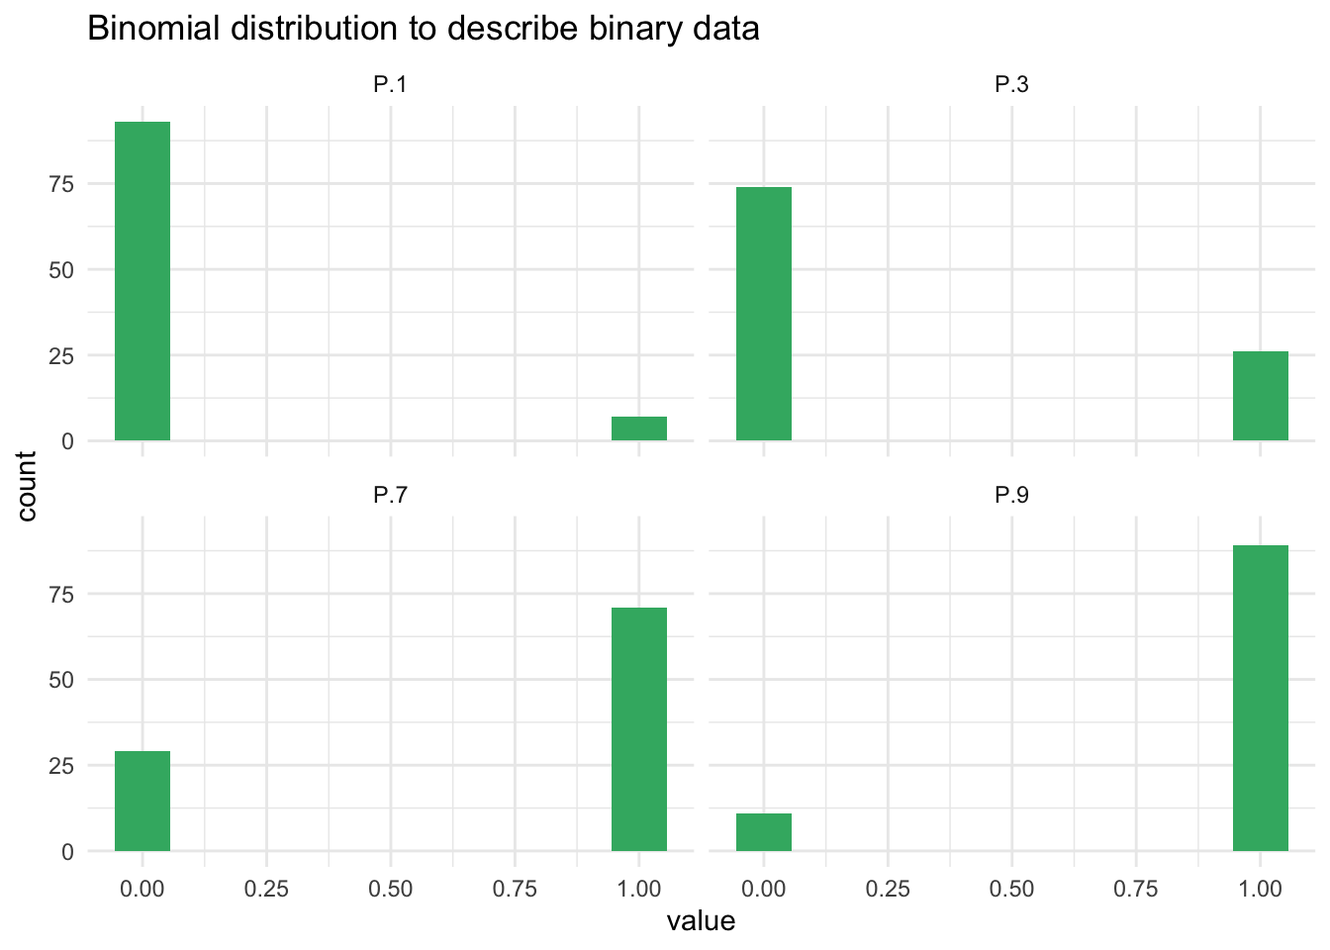
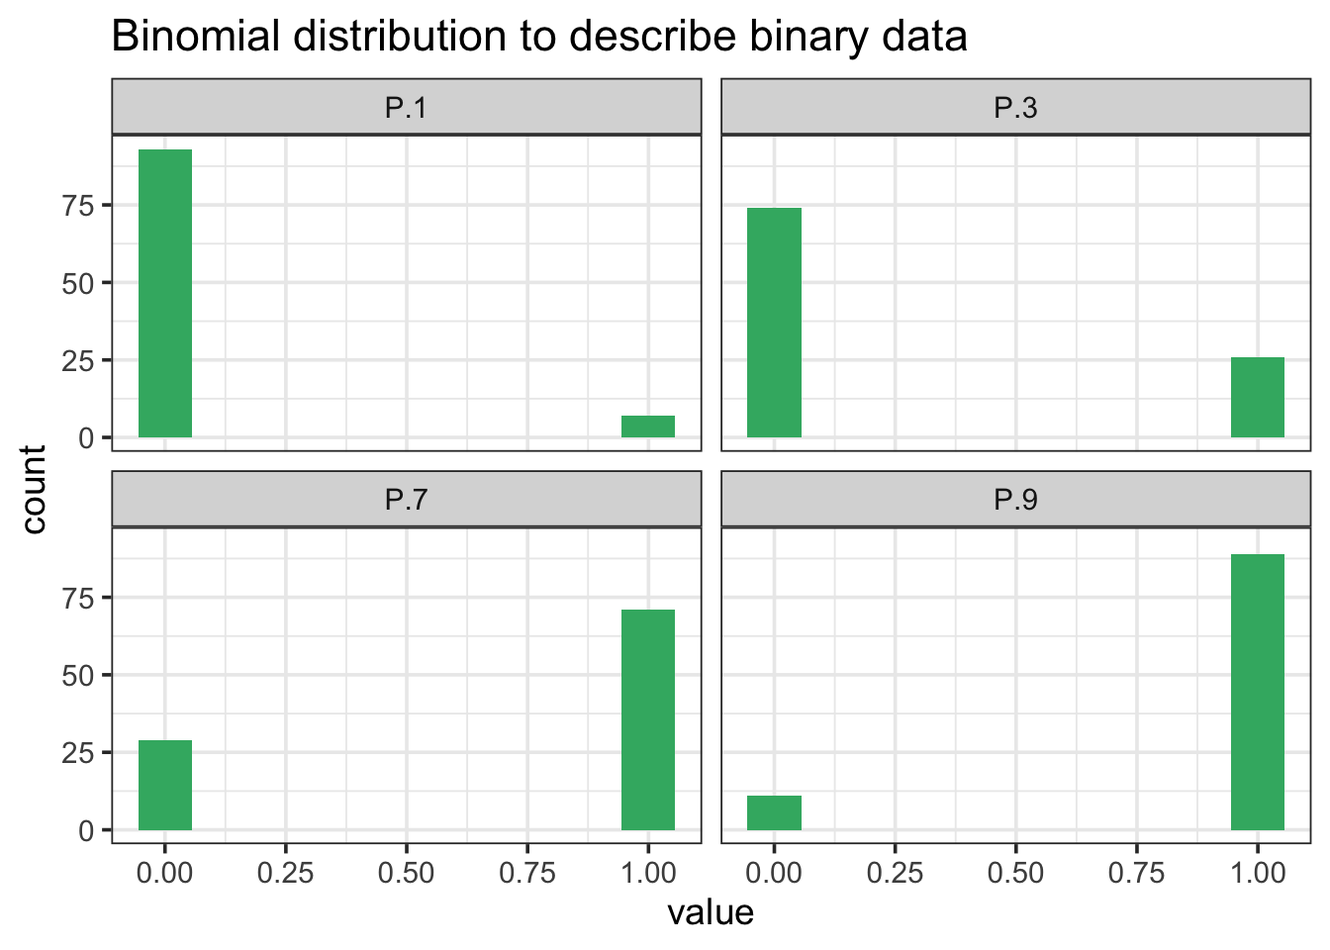
poisson and gamma added

diff --git a/_book/epidemic-data.html b/_book/epidemic-data.html
@@ -235,30 +235,35 @@
 </div>
 <section id="introduction" class="level2" data-number="1.1">
 <h2 data-number="1.1" class="anchored" data-anchor-id="introduction"><span class="header-section-number">1.1</span> Introduction</h2>
-<p>One cannot study epidemic progress in time or spread in space without data collected in the field. The study of plant disease quantification is known as Phytopathometry, a well-established branch of plant pathology tasked with the science of disease measurement, but which has strong roots in epidemiology <span class="citation" data-cites="bock2021">(<a href="references.html#ref-bock2021" role="doc-biblioref">Bock et al. 2021</a>)</span>. Historically, disease quantification has been performed visually, but advances in both imaging and remote sensing technologies have directly impacted the field during the last several decades. Therefore, the quantity of disease can be obtained via estimation (visually by human eye) or measurement (sensor or digital technologies).</p>
-<p>While measuring disease is an objective task, visual assessment is largely subjective and as such known to vary among individuals. This occurs because humans have different inherent abilities, vary in training to assess disease, or are more or less affected by the chosen method (e.g.&nbsp;scales). Disease is estimated or measured on a specimen in a population, or on a sample of specimens drawn from a population. The specimen can be a plant organ, an individual plant, a group of plants, a field or a farm, and these also dictate how terms are defined to refer to disease quantity.</p>
+<p>Studies on the progress of epidemics in time or their spread in space cannot be conducted without data collected in the field - or in same cases simulated. The study of plant disease quantification is known as Phytopathometry, a branch of plant pathology tasked with the science of disease measurement, but which has strong roots in epidemiology <span class="citation" data-cites="bock2021">(<a href="references.html#ref-bock2021" role="doc-biblioref">Bock et al. 2021</a>)</span>. Historically, disease quantification has been performed visually, but advances in both imaging and remote sensing technologies have directly impacted the field during the last several decades. Therefore, the quantity of disease can be obtained via estimation (visually by human eye) or measurement (sensor or digital technologies).</p>
+<p>While measuring disease is a a more objective task, visual assessment is largely subjective and, as such, known to vary among individuals. This occurs because humans vary in their inherent abilities, training to assess disease, or are more or less affected by the chosen method (e.g.&nbsp;scales). Disease is estimated or measured on a specimen in a population, or on a sample of specimens drawn from a population. The specimen can be a plant organ, an individual plant, a group of plants, a field or a farm, and these also dictate how terms are defined to refer to disease quantity.</p>
 </section>
 <section id="terminology" class="level2" data-number="1.2">
 <h2 data-number="1.2" class="anchored" data-anchor-id="terminology"><span class="header-section-number">1.2</span> Terminology</h2>
-<p>A general term used to refer to the quantity of disease expressed by any means is <strong>disease intensity</strong>. This actually has little practical value as it only suggest that the disease is more or less “intense”, but there is no scale for intensity. We need more specific terms to refer to disease intensity.</p>
-<p>When assessing disease, a primary task is to classify each specimen in a sample as diseased or not diseased. This binary (yes/no) assessment may be sufficient to express disease intensity in certain cases. For example, if the goal is to assess the number or proportion of diseased specimens in a sample or a population of specimens. The scenario leads to two important terms: disease <strong>incidence</strong> and <strong>prevalence</strong>. While incidence is commonly used to refer to the proportion or number of plants or their organs as the observational units, prevalence is used when referring to the proportion or number of fields or farms with diseased plants in a large production area or region <span class="citation" data-cites="nutter2006">(<a href="references.html#ref-nutter2006" role="doc-biblioref">Nutter et al. 2006</a>)</span>. Hence, prevalence is equivalent to incidence, only differing in the spatial scale of the sampling unit.</p>
-<p>In many cases we need to ascertain the <em>degree to which a specimen is diseased</em>, which is a definition of disease <strong>severity</strong>. Elsewhere, severity is defined restrictively as the proportion of the unit that is symptomatic <span class="citation" data-cites="nutter2006">(<a href="references.html#ref-nutter2006" role="doc-biblioref">Nutter et al. 2006</a>)</span>, but a revised concept of disease severity encompasses other metrics including lesion counts and scores based on ordinal scales. These latter scales can be further divided into classes defined based on either the percentage scale or descriptions of symptoms <span class="citation" data-cites="bock2021">(<a href="references.html#ref-bock2021" role="doc-biblioref">Bock et al. 2021</a>)</span>. In some studies we may want to express the quantity of disease in terms of (average) lesion size or area. This can be considered a measure of severity, and it is typically used to classify host genotypes according to resistance or pathogen isolates according to their aggressiveness, influenced or not by environmental factors.</p>
+<p>A general term used to refer to the quantity of disease expressed by any means is <strong>disease intensity</strong>. This term has little or no practical value as it only suggest that the disease is more or less “intense”, but there is no scale for intensity. We need more specific terms to refer to disease quantity. A primary task in disease assessment is to classify each specimen, usually in a sample or in the population, as diseased or not diseased. This binary (yes/no) assessment may be sufficient to express disease intensity if the goal is to assess, for example, the number or proportion of diseased specimens in a sample or a population of specimens.</p>
+<p>The above leads to two terms: disease <strong>incidence</strong> and <strong>prevalence</strong>. While incidence is commonly used to refer to the proportion or number of plants (or their organs) as the observational units at the field scale or below, prevalence is used when referring to the proportion or number of fields or farms with diseased plants in a large production area or region <span class="citation" data-cites="nutter2006">(<a href="references.html#ref-nutter2006" role="doc-biblioref">Nutter et al. 2006</a>)</span>. Hence, prevalence is equivalent to incidence, only differing in the spatial scale of the sampling unit.</p>
+<p>In many cases we need to ascertain the <em>degree to which a specimen is diseased</em>, which is a definition of disease <strong>severity</strong>. Elsewhere, severity is defined restrictively as the proportion of the unit that is symptomatic <span class="citation" data-cites="nutter2006">(<a href="references.html#ref-nutter2006" role="doc-biblioref">Nutter et al. 2006</a>)</span>. However, a broader view of severity encompasses other metrics including lesion counts and scores based on ordinal scales. These latter scales can be further divided into classes defined based on either the percentage scale or descriptions of symptoms <span class="citation" data-cites="bock2021">(<a href="references.html#ref-bock2021" role="doc-biblioref">Bock et al. 2021</a>)</span>. In some cases disease is expressed in terms of (average) lesion size or area, which can be considered a measure of severity. It is commonly used to determine host resistance, pathogen aggressiveness or environmental influence.</p>
 </section>
 <section id="data-types-and-distributions" class="level2" data-number="1.3">
 <h2 data-number="1.3" class="anchored" data-anchor-id="data-types-and-distributions"><span class="header-section-number">1.3</span> Data types and distributions</h2>
-<p>The disease data used to express disease as incidence or any kind of severity measures vary in their nature as they can be discrete (countable) or continuous. They can also be described by a statistical distribution, which gives the probability that a particular value (or a range of values) will be drawn from a distribution. Knowledge about statistical or mathematical distributions constitute an important step to improve our understanding of data-collection methods, designs of experiments and data analysis such as data summarization or hypothesis testing.</p>
+<p>The data used to express disease as incidence or any kind of severity measures vary in their nature as they can be discrete or continuous.</p>
+<p><strong>Discrete</strong> variables are countable (involve integers) at a finite amount of time. That is, only a limited number of values (nominal or ordinal) is possible and these cannot be subdivided into parts. For example, a plant or plant part can be either disease or not diseased (nominal data). We cannot count 1.5 diseased plants. Also, a plant classified as diseased may exhibit a certain number of lesions (count data) or be classified into a specific class of severity (ordinal data, common in ordinal scales, e.g.&nbsp;1-9).</p>
+<p>A <strong>continuous</strong> variable, different from discrete, can be measured on a scale and can have any numeric value between two numbers. For example, the size of a lesion on a plant can be measured at a very precise scale (cm or mm). An estimate of severity in percent scale (% diseased area) can take any value between non zero and 100%. Although discrete at the individual level, incidence at the sample level can be treated as continuous, as it can take any value in proportion or percentage.</p>
+<p>The disease variables can also be described by a statistical distribution, which are models that give the probability that a particular value (or a range of values) will be drawn from a specific distribution. Knowledge about statistical or mathematical distributions constitute an important step to improve our understanding of data-collection methods, designs of experiments and data analysis such as data summarization or hypothesis testing.</p>
 <section id="binomial-distribution" class="level3" data-number="1.3.1">
 <h3 data-number="1.3.1" class="anchored" data-anchor-id="binomial-distribution"><span class="header-section-number">1.3.1</span> Binomial distribution</h3>
 <p>For incidence (and prevalence), the data is binary at the individual level, as there are only two possible outcomes in a <em>trial</em>: the plant or plant part is disease or not diseased. The statistical distribution that best describe the incidence data at the individual level is the <em>binomial distribution</em>.</p>
 <p>Let’s simulate the binomial outcomes for a range of probabilities in a sample of 100 units, using the <code>rbinom</code> function in R. For a single trial (e.g.&nbsp;status of plants in a single plant row), the <code>size</code> argument is set to 1.</p>
 <div class="cell">
 <div class="sourceCode" id="cb1"><pre class="sourceCode r cell-code code-with-copy"><code class="sourceCode r"><span id="cb1-1"><a href="#cb1-1" aria-hidden="true" tabindex="-1"></a><span class="fu">library</span>(tidyverse)</span>
-<span id="cb1-2"><a href="#cb1-2" aria-hidden="true" tabindex="-1"></a><span class="fu">set.seed</span>(<span class="dv">123</span>) <span class="co"># for reproducibility</span></span>
-<span id="cb1-3"><a href="#cb1-3" aria-hidden="true" tabindex="-1"></a>P<span class="fl">.1</span> <span class="ot">&lt;-</span> <span class="fu">rbinom</span>(<span class="dv">100</span>, <span class="at">size =</span> <span class="dv">1</span>, <span class="at">prob =</span> <span class="fl">0.1</span>)</span>
-<span id="cb1-4"><a href="#cb1-4" aria-hidden="true" tabindex="-1"></a>P<span class="fl">.3</span> <span class="ot">&lt;-</span> <span class="fu">rbinom</span>(<span class="dv">100</span>, <span class="at">size =</span> <span class="dv">1</span>, <span class="at">prob =</span> <span class="fl">0.3</span>)</span>
-<span id="cb1-5"><a href="#cb1-5" aria-hidden="true" tabindex="-1"></a>P<span class="fl">.7</span> <span class="ot">&lt;-</span> <span class="fu">rbinom</span>(<span class="dv">100</span>, <span class="at">size =</span> <span class="dv">1</span>, <span class="at">prob =</span> <span class="fl">0.7</span>)</span>
-<span id="cb1-6"><a href="#cb1-6" aria-hidden="true" tabindex="-1"></a>P<span class="fl">.9</span> <span class="ot">&lt;-</span> <span class="fu">rbinom</span>(<span class="dv">100</span>, <span class="at">size =</span> <span class="dv">1</span>, <span class="at">prob =</span> <span class="fl">0.9</span>)</span>
-<span id="cb1-7"><a href="#cb1-7" aria-hidden="true" tabindex="-1"></a>binomial_data <span class="ot">&lt;-</span> <span class="fu">data.frame</span>(P<span class="fl">.1</span>, P<span class="fl">.3</span>, P<span class="fl">.7</span>, P<span class="fl">.9</span>)</span></code><button title="Copy to Clipboard" class="code-copy-button"><i class="bi"></i></button></pre></div>
+<span id="cb1-2"><a href="#cb1-2" aria-hidden="true" tabindex="-1"></a><span class="fu">theme_set</span>(<span class="fu">theme_bw</span>(<span class="at">base_size =</span> <span class="dv">14</span>)) <span class="co"># set global theme</span></span>
+<span id="cb1-3"><a href="#cb1-3" aria-hidden="true" tabindex="-1"></a></span>
+<span id="cb1-4"><a href="#cb1-4" aria-hidden="true" tabindex="-1"></a><span class="fu">set.seed</span>(<span class="dv">123</span>) <span class="co"># for reproducibility</span></span>
+<span id="cb1-5"><a href="#cb1-5" aria-hidden="true" tabindex="-1"></a>P<span class="fl">.1</span> <span class="ot">&lt;-</span> <span class="fu">rbinom</span>(<span class="dv">100</span>, <span class="at">size =</span> <span class="dv">1</span>, <span class="at">prob =</span> <span class="fl">0.1</span>)</span>
+<span id="cb1-6"><a href="#cb1-6" aria-hidden="true" tabindex="-1"></a>P<span class="fl">.3</span> <span class="ot">&lt;-</span> <span class="fu">rbinom</span>(<span class="dv">100</span>, <span class="at">size =</span> <span class="dv">1</span>, <span class="at">prob =</span> <span class="fl">0.3</span>)</span>
+<span id="cb1-7"><a href="#cb1-7" aria-hidden="true" tabindex="-1"></a>P<span class="fl">.7</span> <span class="ot">&lt;-</span> <span class="fu">rbinom</span>(<span class="dv">100</span>, <span class="at">size =</span> <span class="dv">1</span>, <span class="at">prob =</span> <span class="fl">0.7</span>)</span>
+<span id="cb1-8"><a href="#cb1-8" aria-hidden="true" tabindex="-1"></a>P<span class="fl">.9</span> <span class="ot">&lt;-</span> <span class="fu">rbinom</span>(<span class="dv">100</span>, <span class="at">size =</span> <span class="dv">1</span>, <span class="at">prob =</span> <span class="fl">0.9</span>)</span>
+<span id="cb1-9"><a href="#cb1-9" aria-hidden="true" tabindex="-1"></a>binomial_data <span class="ot">&lt;-</span> <span class="fu">data.frame</span>(P<span class="fl">.1</span>, P<span class="fl">.3</span>, P<span class="fl">.7</span>, P<span class="fl">.9</span>)</span></code><button title="Copy to Clipboard" class="code-copy-button"><i class="bi"></i></button></pre></div>
 </div>
 <p>We can then visualize the plots.</p>
 <div class="cell">
@@ -269,8 +274,7 @@
 <span id="cb2-5"><a href="#cb2-5" aria-hidden="true" tabindex="-1"></a>  <span class="fu">geom_histogram</span>(<span class="at">fill =</span> <span class="st">"MediumSeaGreen"</span>, </span>
 <span id="cb2-6"><a href="#cb2-6" aria-hidden="true" tabindex="-1"></a>                 <span class="at">bins =</span><span class="dv">10</span>)<span class="sc">+</span></span>
 <span id="cb2-7"><a href="#cb2-7" aria-hidden="true" tabindex="-1"></a>  <span class="fu">facet_wrap</span>(<span class="sc">~</span>P)<span class="sc">+</span></span>
-<span id="cb2-8"><a href="#cb2-8" aria-hidden="true" tabindex="-1"></a>  <span class="fu">theme_minimal</span>()<span class="sc">+</span></span>
-<span id="cb2-9"><a href="#cb2-9" aria-hidden="true" tabindex="-1"></a>  <span class="fu">labs</span>(<span class="at">title =</span> <span class="st">"Binomial distribution to describe binary data"</span>)</span></code><button title="Copy to Clipboard" class="code-copy-button"><i class="bi"></i></button></pre></div>
+<span id="cb2-8"><a href="#cb2-8" aria-hidden="true" tabindex="-1"></a>  <span class="fu">labs</span>(<span class="at">title =</span> <span class="st">"Binomial distribution to describe binary data"</span>)</span></code><button title="Copy to Clipboard" class="code-copy-button"><i class="bi"></i></button></pre></div>
 <div class="cell-output-display">
 <p><img src="epidemic-data_files/figure-html/unnamed-chunk-4-1.png" class="img-fluid" width="672"></p>
 </div>
@@ -295,8 +299,7 @@
 <span id="cb4-7"><a href="#cb4-7" aria-hidden="true" tabindex="-1"></a>                 <span class="at">bins =</span> <span class="dv">15</span>)<span class="sc">+</span></span>
 <span id="cb4-8"><a href="#cb4-8" aria-hidden="true" tabindex="-1"></a>  <span class="fu">scale_x_continuous</span>(<span class="at">limits =</span> <span class="fu">c</span>(<span class="dv">0</span>,<span class="dv">1</span>))<span class="sc">+</span></span>
 <span id="cb4-9"><a href="#cb4-9" aria-hidden="true" tabindex="-1"></a>  <span class="fu">facet_wrap</span>(<span class="sc">~</span>P)<span class="sc">+</span></span>
-<span id="cb4-10"><a href="#cb4-10" aria-hidden="true" tabindex="-1"></a>  <span class="fu">theme_minimal</span>()<span class="sc">+</span></span>
-<span id="cb4-11"><a href="#cb4-11" aria-hidden="true" tabindex="-1"></a>  <span class="fu">labs</span>(<span class="at">title =</span> <span class="st">"Beta distribution to describe proportion data"</span>)</span></code><button title="Copy to Clipboard" class="code-copy-button"><i class="bi"></i></button></pre></div>
+<span id="cb4-10"><a href="#cb4-10" aria-hidden="true" tabindex="-1"></a>  <span class="fu">labs</span>(<span class="at">title =</span> <span class="st">"Beta distribution to describe proportion data"</span>)</span></code><button title="Copy to Clipboard" class="code-copy-button"><i class="bi"></i></button></pre></div>
 <div class="cell-output-display">
 <p><img src="epidemic-data_files/figure-html/unnamed-chunk-8-1.png" class="img-fluid" width="672"></p>
 </div>
@@ -304,11 +307,50 @@
 </section>
 <section id="poisson-distribution" class="level3" data-number="1.3.3">
 <h3 data-number="1.3.3" class="anchored" data-anchor-id="poisson-distribution"><span class="header-section-number">1.3.3</span> Poisson distribution</h3>
-<p>Count data</p>
+<p>The number of diseased plants, plant parts or individual symptoms (lesions) are discrete variables (integers) which cannot take negative values. These can be described by a Poisson distribution, a discrete distribution that counts the number of events in a Poisson process. In R, we can used the <code>rpois</code> function to obtain 100 random observations following a Poisson distribution. For such, we need to inform the number of observation (n = 100) and <code>lambda</code> which is the vector of means.</p>
+<div class="cell">
+<div class="sourceCode" id="cb5"><pre class="sourceCode r cell-code code-with-copy"><code class="sourceCode r"><span id="cb5-1"><a href="#cb5-1" aria-hidden="true" tabindex="-1"></a>poisson5 <span class="ot">&lt;-</span> <span class="fu">rpois</span>(<span class="dv">100</span>, <span class="at">lambda =</span> <span class="dv">10</span>)</span>
+<span id="cb5-2"><a href="#cb5-2" aria-hidden="true" tabindex="-1"></a>poisson35 <span class="ot">&lt;-</span> <span class="fu">rpois</span>(<span class="dv">100</span>, <span class="at">lambda =</span> <span class="dv">35</span>)</span>
+<span id="cb5-3"><a href="#cb5-3" aria-hidden="true" tabindex="-1"></a>poisson_data <span class="ot">&lt;-</span> <span class="fu">data.frame</span>(poisson5, poisson35)</span></code><button title="Copy to Clipboard" class="code-copy-button"><i class="bi"></i></button></pre></div>
+</div>
+<div class="cell">
+<div class="sourceCode" id="cb6"><pre class="sourceCode r cell-code code-with-copy"><code class="sourceCode r"><span id="cb6-1"><a href="#cb6-1" aria-hidden="true" tabindex="-1"></a>poisson_data <span class="sc">|&gt;</span></span>
+<span id="cb6-2"><a href="#cb6-2" aria-hidden="true" tabindex="-1"></a>  <span class="fu">pivot_longer</span>(<span class="dv">1</span><span class="sc">:</span><span class="dv">2</span>, <span class="at">names_to =</span> <span class="st">"P"</span>, </span>
+<span id="cb6-3"><a href="#cb6-3" aria-hidden="true" tabindex="-1"></a>               <span class="at">values_to =</span> <span class="st">"value"</span>) <span class="sc">|&gt;</span> </span>
+<span id="cb6-4"><a href="#cb6-4" aria-hidden="true" tabindex="-1"></a>  <span class="fu">ggplot</span>(<span class="fu">aes</span>(value))<span class="sc">+</span></span>
+<span id="cb6-5"><a href="#cb6-5" aria-hidden="true" tabindex="-1"></a>  <span class="fu">geom_histogram</span>(<span class="at">fill =</span> <span class="st">"MediumSeaGreen"</span>, </span>
+<span id="cb6-6"><a href="#cb6-6" aria-hidden="true" tabindex="-1"></a>                 <span class="at">color =</span> <span class="st">"white"</span>, </span>
+<span id="cb6-7"><a href="#cb6-7" aria-hidden="true" tabindex="-1"></a>                 <span class="at">bins =</span> <span class="dv">15</span>)<span class="sc">+</span></span>
+<span id="cb6-8"><a href="#cb6-8" aria-hidden="true" tabindex="-1"></a>  <span class="fu">facet_wrap</span>(<span class="sc">~</span>P)<span class="sc">+</span></span>
+<span id="cb6-9"><a href="#cb6-9" aria-hidden="true" tabindex="-1"></a>  <span class="fu">labs</span>(<span class="at">title =</span> <span class="st">"Poisson distribution to describe count data"</span>)</span></code><button title="Copy to Clipboard" class="code-copy-button"><i class="bi"></i></button></pre></div>
+<div class="cell-output-display">
+<p><img src="epidemic-data_files/figure-html/unnamed-chunk-12-1.png" class="img-fluid" width="672"></p>
+</div>
+</div>
 </section>
 <section id="gamma-distribution" class="level3" data-number="1.3.4">
 <h3 data-number="1.3.4" class="anchored" data-anchor-id="gamma-distribution"><span class="header-section-number">1.3.4</span> Gamma distribution</h3>
-<p>Lesion size data</p>
+<p>When working with a continuous variables, such as lesion size, these random variables are usually described by the normal distribution. However, the problem is that the normal (Gaussian) distribution includes negative values, which is not realistic in our situation. Therefore, we can use the gamma distribution, which cannot take negative values, to simulate continuous plant disease data. We can use the <code>rgamma</code> function which requires the number of samples (n = 100 in our case) and the <code>shape</code>, which is the mean value.</p>
+<div class="cell">
+<div class="sourceCode" id="cb7"><pre class="sourceCode r cell-code code-with-copy"><code class="sourceCode r"><span id="cb7-1"><a href="#cb7-1" aria-hidden="true" tabindex="-1"></a>gamma10 <span class="ot">&lt;-</span> <span class="fu">rgamma</span>(<span class="at">n =</span> <span class="dv">100</span>, <span class="at">shape =</span> <span class="dv">10</span>, <span class="at">scale =</span> <span class="dv">1</span>)</span>
+<span id="cb7-2"><a href="#cb7-2" aria-hidden="true" tabindex="-1"></a>gamma35 <span class="ot">&lt;-</span> <span class="fu">rgamma</span>(<span class="at">n =</span> <span class="dv">100</span>, <span class="at">shape =</span> <span class="dv">35</span>, <span class="at">scale =</span> <span class="dv">1</span>)</span>
+<span id="cb7-3"><a href="#cb7-3" aria-hidden="true" tabindex="-1"></a>gamma_data <span class="ot">&lt;-</span> <span class="fu">data.frame</span>(gamma10, gamma35)</span></code><button title="Copy to Clipboard" class="code-copy-button"><i class="bi"></i></button></pre></div>
+</div>
+<div class="cell">
+<div class="sourceCode" id="cb8"><pre class="sourceCode r cell-code code-with-copy"><code class="sourceCode r"><span id="cb8-1"><a href="#cb8-1" aria-hidden="true" tabindex="-1"></a>gamma_data <span class="sc">|&gt;</span></span>
+<span id="cb8-2"><a href="#cb8-2" aria-hidden="true" tabindex="-1"></a>  <span class="fu">pivot_longer</span>(<span class="dv">1</span><span class="sc">:</span><span class="dv">2</span>, <span class="at">names_to =</span> <span class="st">"P"</span>, </span>
+<span id="cb8-3"><a href="#cb8-3" aria-hidden="true" tabindex="-1"></a>               <span class="at">values_to =</span> <span class="st">"value"</span>) <span class="sc">|&gt;</span> </span>
+<span id="cb8-4"><a href="#cb8-4" aria-hidden="true" tabindex="-1"></a>  <span class="fu">ggplot</span>(<span class="fu">aes</span>(value))<span class="sc">+</span></span>
+<span id="cb8-5"><a href="#cb8-5" aria-hidden="true" tabindex="-1"></a>  <span class="fu">geom_histogram</span>(<span class="at">fill =</span> <span class="st">"MediumSeaGreen"</span>, </span>
+<span id="cb8-6"><a href="#cb8-6" aria-hidden="true" tabindex="-1"></a>                 <span class="at">color =</span> <span class="st">"white"</span>, </span>
+<span id="cb8-7"><a href="#cb8-7" aria-hidden="true" tabindex="-1"></a>                 <span class="at">bins =</span> <span class="dv">15</span>)<span class="sc">+</span></span>
+<span id="cb8-8"><a href="#cb8-8" aria-hidden="true" tabindex="-1"></a>  <span class="fu">ylim</span>(<span class="dv">0</span>, <span class="fu">max</span>(gamma_data<span class="sc">$</span>gamma35) )<span class="sc">+</span></span>
+<span id="cb8-9"><a href="#cb8-9" aria-hidden="true" tabindex="-1"></a>  <span class="fu">facet_wrap</span>(<span class="sc">~</span>P)<span class="sc">+</span></span>
+<span id="cb8-10"><a href="#cb8-10" aria-hidden="true" tabindex="-1"></a>  <span class="fu">labs</span>(<span class="at">title =</span> <span class="st">"Gamma distribution to describe continous data"</span>)</span></code><button title="Copy to Clipboard" class="code-copy-button"><i class="bi"></i></button></pre></div>
+<div class="cell-output-display">
+<p><img src="epidemic-data_files/figure-html/unnamed-chunk-16-1.png" class="img-fluid" width="672"></p>
+</div>
+</div>
 
 
 
